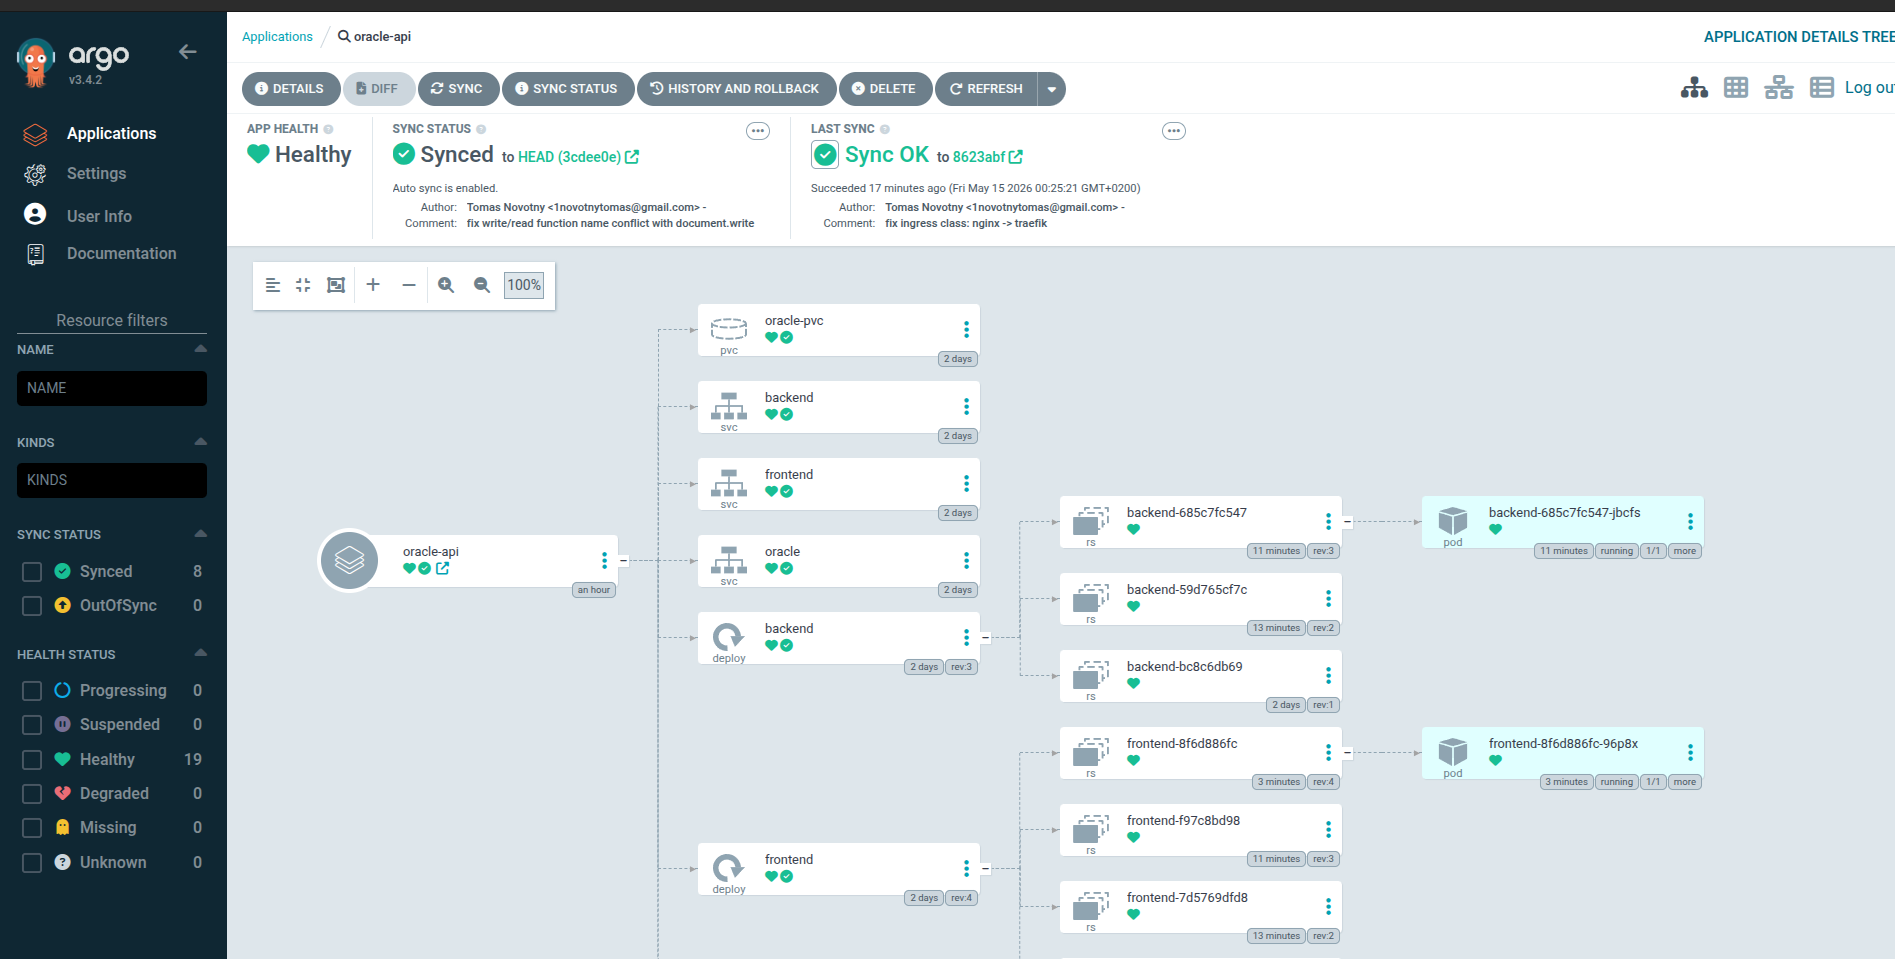
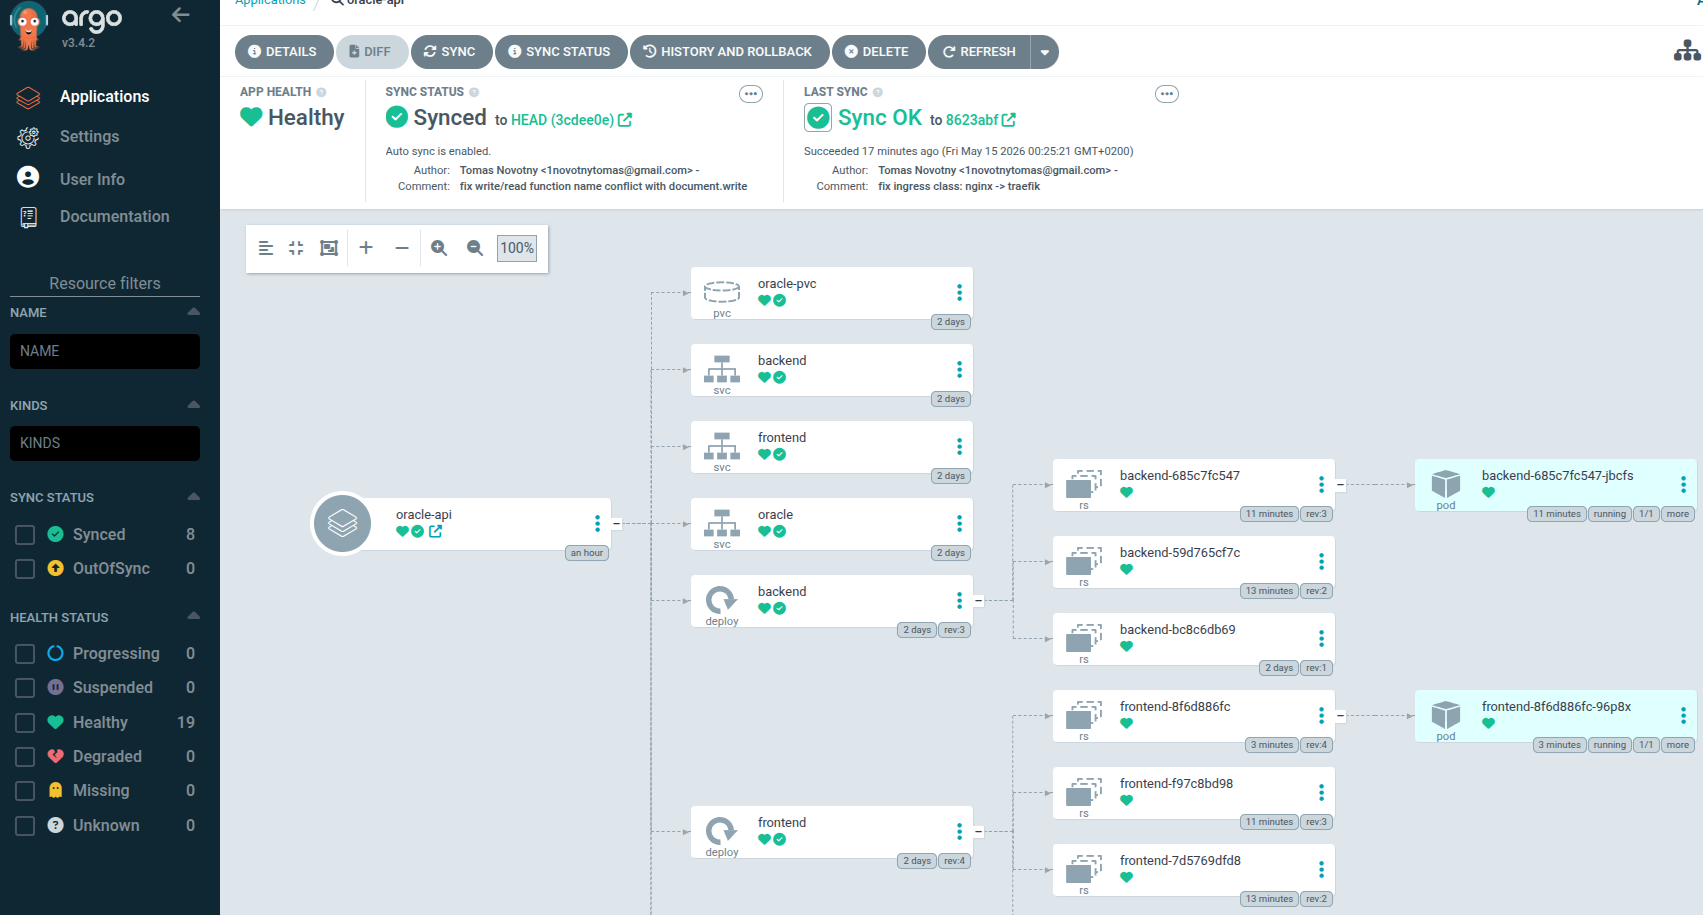
add images

Changed region(s): [[0.0, 0.0, 1.0, 1.0]]

diff --git a/README.md b/README.md
@@ -2,6 +2,8 @@
 
 ![ArgoCD Screenshot](img/argocd.png)
 
+![Infrastructure Diagram](img/diagram.jpeg)
+
 > A complete zero-to-production simulation: From local development to GitOps-driven deployment on a local Kubernetes cluster.
 
 The application itself is intentionally simple, a frontend served by **Nginx** communicating with a **FastAPI** backend that reads/writes data to an **Oracle XE** database. 
